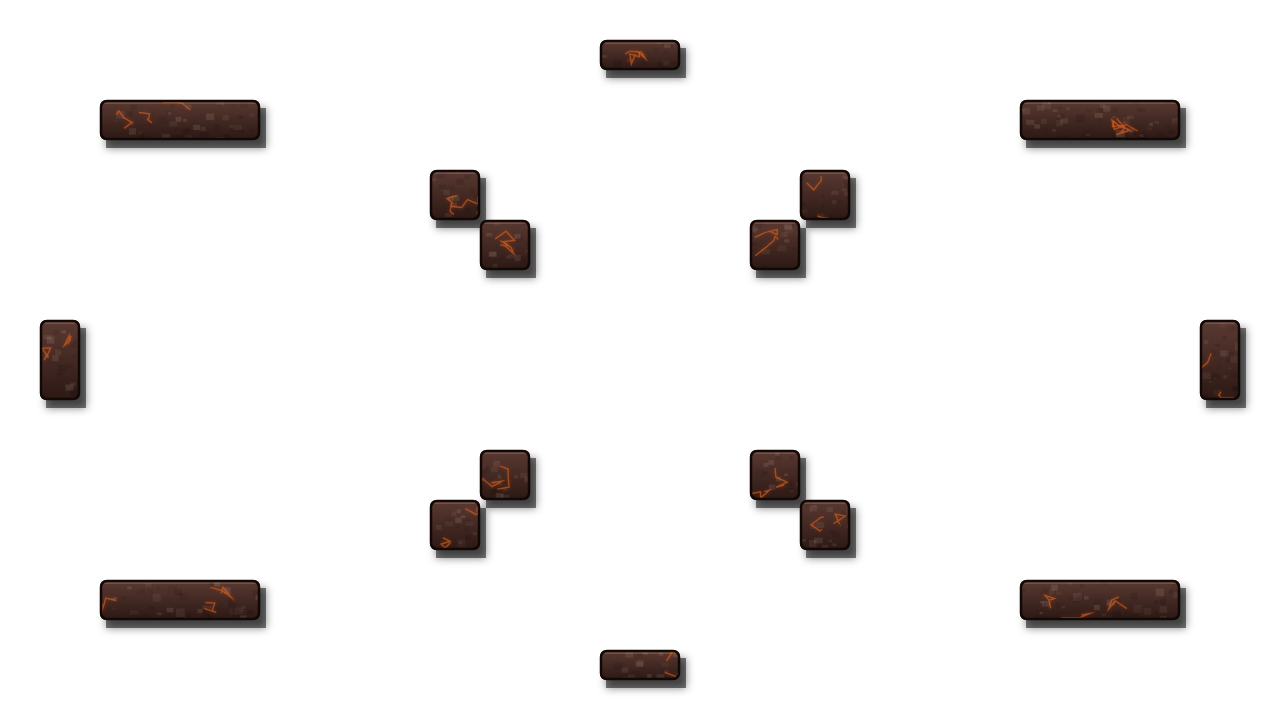
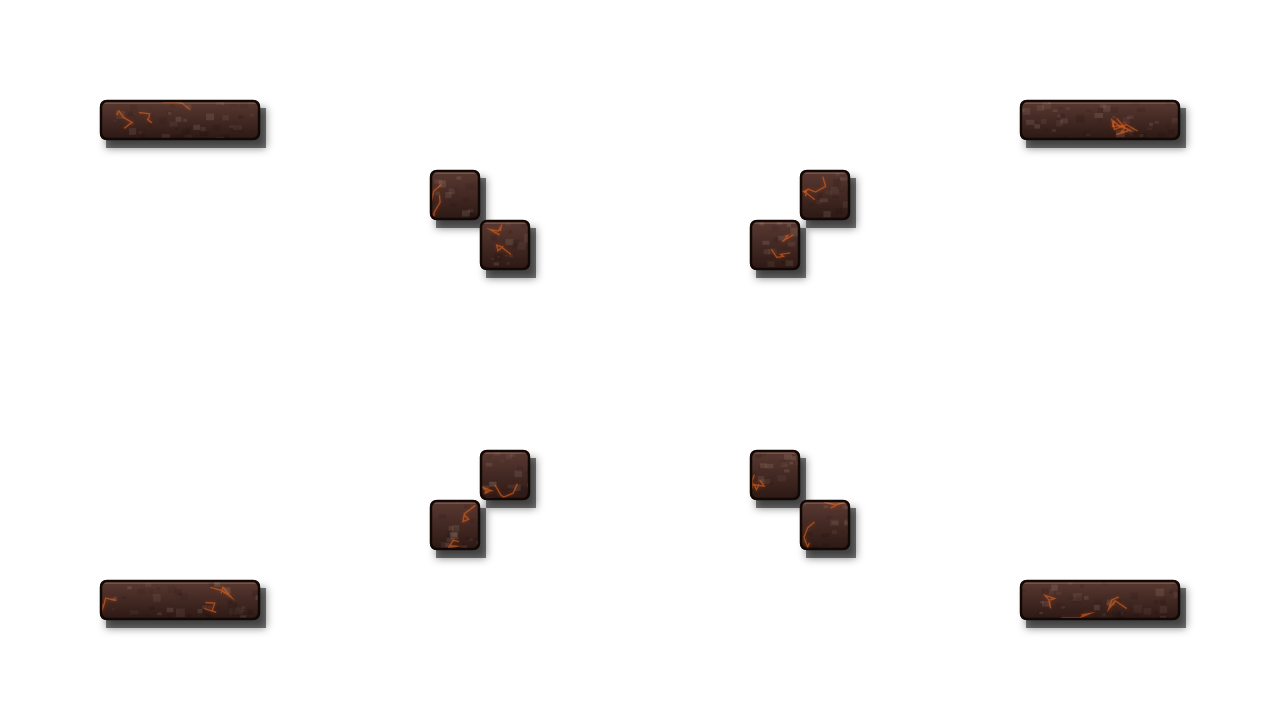
용암·설원 맵 가장자리 벽 제거 (#143)
Claude-Session: https://claude.ai/code/session_014LK3LCMRfeXrTGqs4qkV62

diff --git a/web/js/world.js b/web/js/world.js
@@ -234,10 +234,6 @@ const MAPS = [
         buildWalls: () => coloredWalls('#3c231e', [ // 그을린 화산암
             // 모서리 바위
             [100, 100, 160, 40], [1020, 100, 160, 40], [100, 580, 160, 40], [1020, 580, 160, 40],
-            // 좌우 측면 통로 엄폐 바위
-            [40, 320, 40, 80], [1200, 320, 40, 80],
-            // 상/하단 중앙 진입로 엄폐 바위
-            [600, 40, 80, 30], [600, 650, 80, 30],
             // 가운데 용암 구덩이를 둘러싼 바위 무더기 (완전히 막지 않고 우회로를 남김)
             [430, 170, 50, 50], [480, 220, 50, 50],
             [800, 170, 50, 50], [750, 220, 50, 50],
@@ -266,10 +262,6 @@ const MAPS = [
             [1040, 590, 160, 50], [1150, 480, 50, 160],
             // 가운데 얼음 기둥 2개 (사이는 뚫려 있다)
             [520, 310, 40, 100], [720, 310, 40, 100],
-            // 좌우 측면 얼음벽
-            [40, 310, 40, 100], [1200, 310, 40, 100],
-            // 상/하단 중앙 진입로 엄폐 얼음
-            [600, 40, 80, 30], [600, 650, 80, 30],
         ]),
         buildPickups: () => [], // 구슬 대신 보급 상자
         // 가운데 두 기둥 바깥쪽에 세로로 긴 큰 빙판 (밟으면 미끄러진다, 피해 없음)
